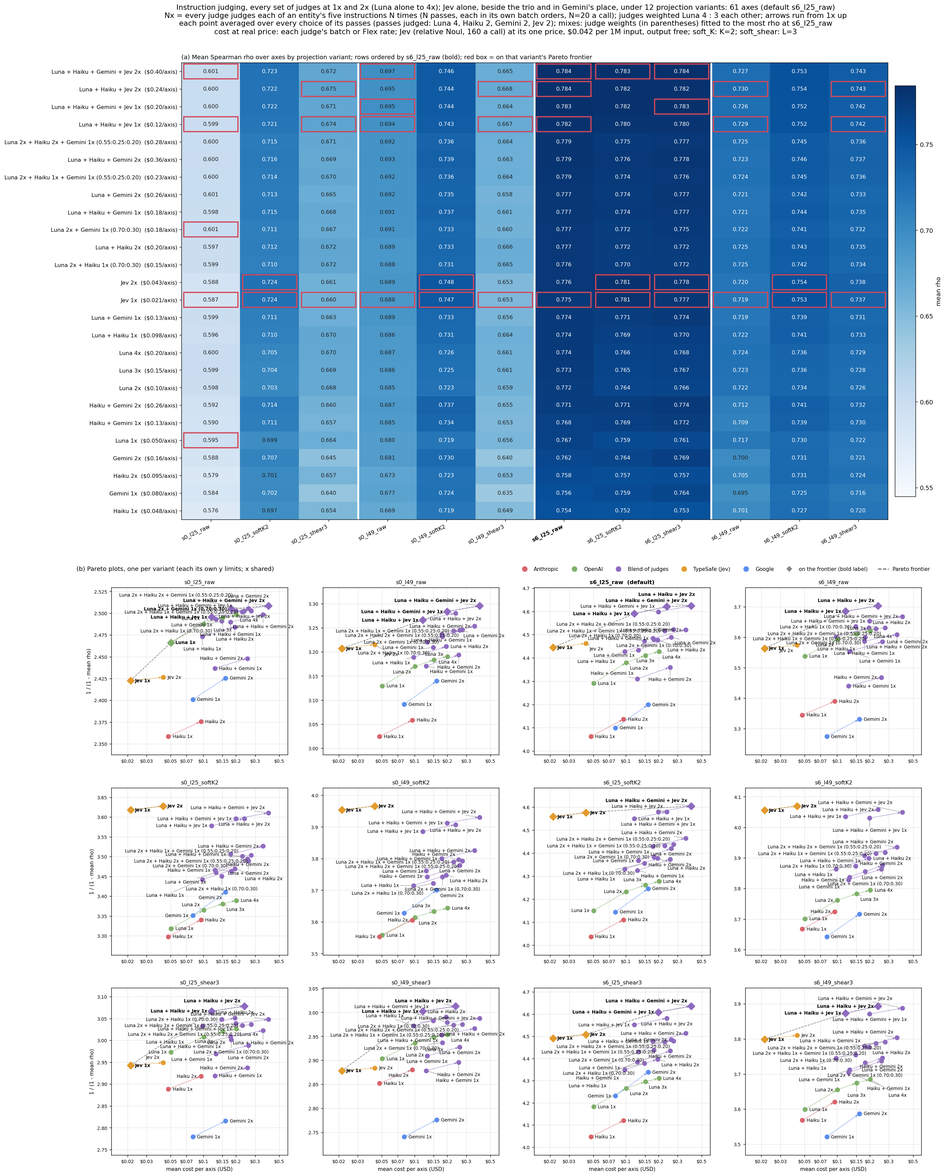
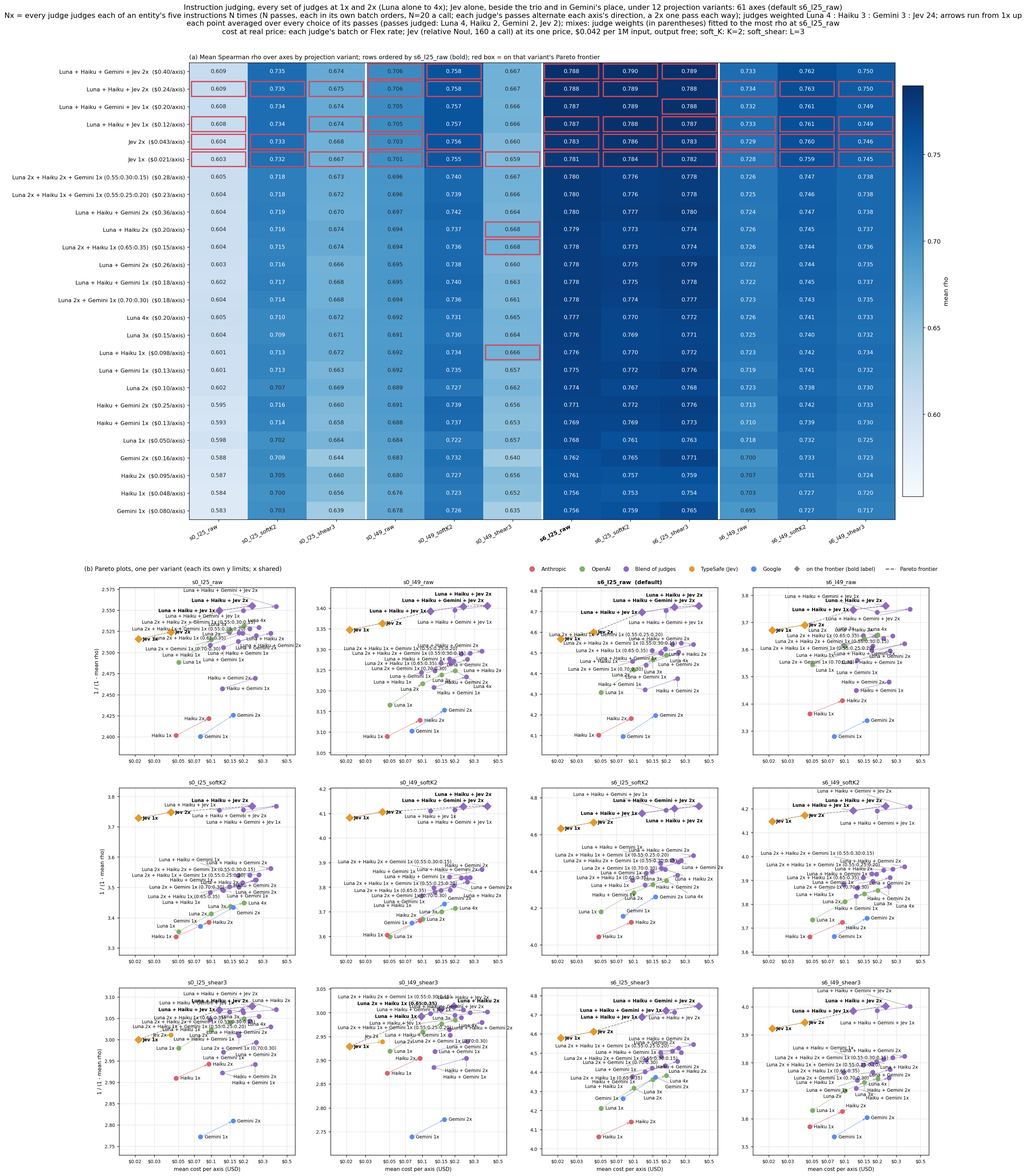
Instruction judging: Jev at 24, as for descriptions; Jev requested as jev-latest with its version checked; the balanced figure
Jev's instruction weight (Roger, 2026-11-04: "(Luna + Haiku + Gemini + Jev) x2, and just do
both directions in the x2"), fitted on the trio's balanced instruction cells (rounds 0-9,
$21.69) and Jev's, on rho averaged over the 12 projection variants: the peak of 4:3:3:X at
20, 24 0.0000 below it [-0.0002, +0.0003], 12-40 within 0.001, the bootstrap's best X in
[12, 40], 16 to 24 picked by either half and by leaving any one axis out, +0.0044
[+0.0014, +0.0074] over 3.  24 in both modes (TIER_JUDGE_WEIGHTS_BY_MODE).  Four judges 2x:
0.789 at $0.398 an axis, against the trio 1x 0.778 at $0.178; Luna + Haiku + Jev 2x 0.788.

TypeSafe serves only jev-latest and jev-preview (GET /v1/models), so the drivers' --model
jev-1.14.0 of 70da7b0f would have failed on a real run (the tests used a fake Jev).  The
drivers now request jev-latest, and judge_jev_entities.py --expect_model jev-1.14.0 writes
no cell (exit 5) when Jev answers as another version, since the cell names and the weights
are for that version.  The existing cells' logs then resume as they are.

judge_instruction_12way.png redrawn on the balanced cells with Jev; its notes, the README,
AGENT_NOTES and jev_judging.md carry the numbers.

Tests: the description driver's Jev command now expects --model jev-latest and
--expect_model jev-1.14.0 (changed expectation); new checks for the grid's command, for a
run refusing another version, and for the instruction weight.

diff --git a/scripts/judge_jev_entities.py b/scripts/judge_jev_entities.py
@@ -347,7 +347,12 @@ def build_parser() -> argparse.ArgumentParser:
     p.add_argument("--direction_pass", type=int, default=0, help="with --directions descriptions: 0 or 1")
     p.add_argument("--entities_per_call", type=int, default=20)
     p.add_argument("--shuffle_seed", type=int, default=1)
-    p.add_argument("--model", default=DEFAULT_MODEL)
+    p.add_argument("--model", default=DEFAULT_MODEL,
+                   help="the name requested: the API offers only jev-latest and jev-preview, no pinned versions")
+    p.add_argument("--expect_model", default=None,
+                   help="the version the answers must come from (e.g. jev-1.14.0, which the drivers' cell names and "
+                        "Jev's fitted weights are for): an answer from another version stops the run before any cell "
+                        "is written")
     p.add_argument("--cell_label", required=True, help="suffix of the cells, starting with @")
     p.add_argument("--max_in_flight", type=int, default=24)
     p.add_argument("--budget_usd", type=float, default=None, help="stop issuing requests past this spend")
@@ -502,6 +507,12 @@ def write_cells(jobs, requests, answers, args, levels: int, log_path: Path) -> i
     for job, key, names, _, _ in requests:
         by_axis.setdefault(job.axis_dir, []).append((names, answers[key]))
     resolved = sorted({r.get("model") for r in answers.values() if r.get("model")})
+    if args.expect_model and resolved != [args.expect_model]:
+        logger.error(f"Jev answered as {', '.join(resolved) or 'no named version'}, not {args.expect_model}: the "
+                     f"cells' names and Jev's fitted weights are for {args.expect_model}, so no cell is written.  Check "
+                     f"the new version, then change JEV_MODEL in the drivers (judge_descriptions.py, "
+                     f"judge_instruction_grid.py), which refits nothing by itself")
+        return 5
     model = resolved[0] if len(resolved) == 1 else args.model
     mode = args.mode
     n_ok = n_all = 0

diff --git a/results_analysis/judge_descriptions.py b/results_analysis/judge_descriptions.py
@@ -78,6 +78,9 @@ DESCRIPTION_PASSES = 2
 #: value Jev's probability of yes), its passes balanced the same way as the others', its weight in
 #: judge_score_combine.TIER_JUDGE_WEIGHTS.  Its key is TYPESAFE_API_KEY.
 JEV_MODEL = "jev-1.14.0"
+#: The name requested: TypeSafe's API serves only jev-latest and jev-preview (GET /v1/models, 2026-11-04), so the
+#: drivers ask for jev-latest and require answers from JEV_MODEL (judge_jev_entities.py --expect_model).
+JEV_REQUEST_MODEL = "jev-latest"
 JEV_TOOL = Path(__file__).resolve().parents[1] / "scripts" / "judge_jev_entities.py"
 JEV_ENTITIES_PER_CALL = 160
 JEV_METHOD = ("--question", "noul", "--wording", "relative")
@@ -158,7 +161,7 @@ def pass_argv(args: argparse.Namespace, model: str, seed: int) -> List[str]:
 def jev_pass_argv(args: argparse.Namespace, model: str, seed: int) -> List[str]:
     """judge_jev_entities.py's arguments for one Jev pass: the same axes, seed and direction pass as the other
     judges' pass of that seed (so its batches are its own, 160 a request, and its directions the same coin's)."""
-    argv = ["--mode", "descriptions", "--model", model, *JEV_METHOD, "--entities_per_call", str(JEV_ENTITIES_PER_CALL),
+    argv = ["--mode", "descriptions", "--model", JEV_REQUEST_MODEL, "--expect_model", model, *JEV_METHOD, "--entities_per_call", str(JEV_ENTITIES_PER_CALL),
             "--shuffle_seed", str(seed), "--cell_label", jev_pass_label(seed, args.directions),
             "--experiments_dir", args.experiments_dir, "--instructions_dir", args.instructions_dir]
     if args.directions == "balanced":

diff --git a/scripts/judge_instruction_grid.py b/scripts/judge_instruction_grid.py
@@ -43,6 +43,8 @@ from results_analysis.judge_descriptions import max_tokens_for
 TOOL = REPO / "results_analysis" / "judge_tier_cost_eval.py"
 JEV_TOOL = REPO / "scripts" / "judge_jev_entities.py"
 JEV_MODEL = "jev-1.14.0"
+#: Requested as jev-latest, the only released name (judge_descriptions.JEV_REQUEST_MODEL), answers required from JEV_MODEL.
+JEV_REQUEST_MODEL = "jev-latest"
 JEV_ENTITIES_PER_CALL = 160
 JEV_METHOD = ("--question", "noul", "--wording", "relative")
 #: The settled instruction judges (Roger, 2026-11-03: the three; 2026-11-04: with Jev, two passes each)
@@ -63,7 +65,8 @@ def jev_round_label(r: int, directions: str = "own") -> str:
 def jev_command(model: str, r: int, args) -> list:
     """judge_jev_entities.py's command for Jev's round ``r``: instruction r mod 5, seed r + 1, its own batches of
     160, its column of Roger's direction table."""
-    argv = [sys.executable, str(JEV_TOOL), "--mode", "instructions", "--instruction_round", str(r), "--model", model,
+    argv = [sys.executable, str(JEV_TOOL), "--mode", "instructions", "--instruction_round", str(r), "--model", JEV_REQUEST_MODEL,
+            "--expect_model", model,
             *JEV_METHOD, "--entities_per_call", str(JEV_ENTITIES_PER_CALL), "--shuffle_seed", str(r + 1),
             "--cell_label", jev_round_label(r, args.directions), "--axes_file", args.axes_file,
             "--experiments_dir", args.experiments_dir, "--instructions_dir", args.instructions_dir,

diff --git a/results_analysis/tests/test_judge_tier_cost_eval.py b/results_analysis/tests/test_judge_tier_cost_eval.py
@@ -2955,6 +2955,19 @@ def test_jev_entities_judges_a_batch_per_request_and_writes_description_cells(wo
         run(["--shuffle_seed", "2"])
 
 
+def test_jev_entities_refuses_answers_from_another_version(world, monkeypatch):
+    """2026-11-04: TypeSafe serves only jev-latest, so the drivers ask for it and require the version their cell
+    names and Jev's fitted weights are for; answers from another version write no cell (exit 5), and a rerun
+    expecting the version that answered writes them from the log without asking again."""
+    mod, fake, run = _jev_entities(world, monkeypatch, "--mode", "descriptions", "--question", "noul",
+                                   "--entities_per_call", "3", "--cell_label", "@jd_v")
+    assert run(["--expect_model", "jev-1.13.0"]) == 5                # the fake answers as jev-1.14.0
+    assert not list(world.exp.glob("*_tier_eval/jev-*@jd_v"))
+    n = len(fake.calls)
+    assert run(["--expect_model", "jev-1.14.0"]) == 0 and len(fake.calls) == n
+    assert (world.exp / f"{AXES[0][0]}_tier_eval" / "jev-1.14.0@jd_v" / "scores_descriptions.json").exists()
+
+
 def test_jev_entities_instruction_round_puts_that_rounds_instruction_in_the_state(world, monkeypatch):
     for name in ("calm", "bold", "shy", "kind", "alpha", "beta"):
         p = world.data / "traits" / "instructions" / f"{name}.json"

diff --git a/assistant_axis/judge_score_combine.py b/assistant_axis/judge_score_combine.py
@@ -318,8 +318,14 @@ TIER_JUDGE_DEFAULT_WEIGHT: float = 3.0
 #: on rho averaged over the 12 projection variants: the peak of 4:3:3:X, the plateau 16-40 within 0.0005 of it,
 #: the bootstrap's best X in [16, 40] (95%), 24 chosen fitting either half and leaving any one axis out, and
 #: +0.0083 [+0.0051, +0.0113] over X = 3; a free fit of all four weights gains nothing on held-out halves.
+#: instructions: 24 too (Roger: "(Luna + Haiku + Gemini + Jev) x2, and just do both directions in the x2"),
+#: fitted the same way on the balanced instruction cells (rounds 0-9): the peak at 20, 0.0000 above 24
+#: ([-0.0002, +0.0003]), the plateau 12-40 within 0.001, the bootstrap's best X in [12, 40] (95%, 24 the
+#: commonest), 16 to 24 chosen fitting either half or leaving any one axis out, and +0.0044 [+0.0014, +0.0074]
+#: over X = 3; one weight for both modes, since nothing tells the two apart.
 #: Evidence: reports/judge_pareto/jev_judging.md.
-TIER_JUDGE_WEIGHTS_BY_MODE: Dict[str, Dict[str, float]] = {"descriptions": {"jev-1.14.0": 24.0}}
+TIER_JUDGE_WEIGHTS_BY_MODE: Dict[str, Dict[str, float]] = {"descriptions": {"jev-1.14.0": 24.0},
+                                                           "instructions": {"jev-1.14.0": 24.0}}
 
 
 def tier_judge_weights(judges, mode: Optional[str] = None) -> Dict[str, float]:

diff --git a/results_analysis/tests/test_judge_descriptions_jev.py b/results_analysis/tests/test_judge_descriptions_jev.py
@@ -33,7 +33,9 @@ def test_jev_passes_go_to_its_own_tool_with_the_same_seeds_and_directions(monkey
         get = lambda flag: argv[argv.index(flag) + 1]
         assert get("--shuffle_seed") == str(p + 1) and get("--direction_pass") == str(p)
         assert get("--cell_label") == f"@jd_noul_relative_n160d{p + 1}" and get("--entities_per_call") == "160"
-        assert get("--question") == "noul" and get("--wording") == "relative" and get("--model") == jd.JEV_MODEL
+        assert get("--question") == "noul" and get("--wording") == "relative"
+        # the API serves only jev-latest; the answers must come from the version the cells and weights are for
+        assert get("--model") == jd.JEV_REQUEST_MODEL == "jev-latest" and get("--expect_model") == jd.JEV_MODEL
         assert get("--directions") == "descriptions" and get("--axes_file") == "axes.tsv"
     calls.clear()
     assert jd.run_judge(_args(), "gpt-5.6-luna") == 0

diff --git a/assistant_axis/tests/test_judge_score_combine.py b/assistant_axis/tests/test_judge_score_combine.py
@@ -504,6 +504,8 @@ def test_tier_judge_weights_take_a_modes_own_weights():
     four = ["gpt-5.6-luna", "claude-haiku-5-5", "gemini-3.1-flash-lite", "jev-1.14.0"]
     w = tier_judge_weights(four, "descriptions")
     assert w["jev-1.14.0"] / w["gpt-5.6-luna"] == pytest.approx(24 / 4) and w["claude-haiku-5-5"] / w["gpt-5.6-luna"] == pytest.approx(3 / 4)
+    wi = tier_judge_weights(four, "instructions")        # fitted the same way on the balanced instruction cells
+    assert wi["jev-1.14.0"] / wi["gpt-5.6-luna"] == pytest.approx(24 / 4) and wi["gemini-3.1-flash-lite"] == pytest.approx(3 / 34)
     plain = tier_judge_weights(four)
     assert plain["jev-1.14.0"] / plain["gpt-5.6-luna"] == pytest.approx(3 / 4)
     assert tier_judge_weights(["gpt-5.6-luna", "jev-1.14.0@x"], "responses")["jev-1.14.0@x"] == pytest.approx(3 / 7)

diff --git a/scripts/tests/test_judge_instruction_grid_jev.py b/scripts/tests/test_judge_instruction_grid_jev.py
@@ -38,6 +38,7 @@ def test_jev_rounds_run_its_own_tool_and_join_the_blend(monkeypatch, tmp_path):
         assert get("--instruction_round") == str(r) and get("--shuffle_seed") == str(r + 1)
         assert get("--cell_label") == f"@ji_noul_relative_n160d{r}" and get("--directions") == "instructions"
         assert get("--question") == "noul" and get("--entities_per_call") == "160" and get("--mode") == "instructions"
+        assert get("--model") == "jev-latest" and get("--expect_model") == "jev-1.14.0"
     out, sources = blends[0]
     assert out == "gpt-5.6-luna+claude-haiku-5-5+gemini-3.1-flash-lite+jev-1.14.0@i1_p0n20dx2"
     assert len(sources) == 40 and "jev-1.14.0@ji_noul_relative_n160d9" in sources and "gpt-5.6-luna@i1_p0n20d0" in sources

diff --git a/reports/judge_pareto/jev_judging.md b/reports/judge_pareto/jev_judging.md
@@ -106,12 +106,39 @@ So Jev carries 71% of the description blend.  Alone, the judges at 2x balanced s
 
 ## The instruction blend
 
-To be fitted on the trio's balanced instruction cells (`<judge>@i1_p0n20d0..d9`, judged 2026-11-04) with Jev's (`@ji_noul_relative_n160d0..d9`), in the same way.  Until then, Jev on instructions takes the default weight of 3.
+The cells are all four judges, two passes each, on the 61 axes: rounds 0-9, the trio's `<judge>@i1_p0n20d0..d9` (judged 2026-11-04, $21.69) and Jev's `@ji_noul_relative_n160d0..d9`.  Each judge sees each instruction once each way.  Each judge's ten rounds are averaged, then blended 4:3:3:X, with X fitted on ρ averaged over the 12 variants, as for descriptions.
+
+| X | 0 (the trio) | 3 | 8 | 12 | 16 | **20** | 24 | 32 | 48 | 128 | Jev alone |
+|---|---:|---:|---:|---:|---:|---:|---:|---:|---:|---:|---:|
+| ρ, mean of 12 | 0.7202 | 0.7257 | 0.7290 | 0.7299 | 0.7301 | **0.7302** | 0.7301 | 0.7299 | 0.7293 | 0.7276 | 0.7259 |
+
+- **Plateau:** X = 20 is the peak, and 12 to 40 lie within 0.001 of it.  24 is 0.0000 below it ([−0.0003, +0.0002]).
+- **Bootstrap:** resampling the axes, the best X falls between 12 and 40 in 95% of cases (24 most often, 30%; 16 and 20 24% each).
+- **Out of sample:** fitting the development half picks 16, the held-out half 24, and leaving any one axis out picks 16 to 24.  Over 500 random half splits, the out-of-sample gain over the trio alone is +0.0100 at X = 16 or 24 and +0.0055 at X = 3.
+- **Against X = 3:** 24 is +0.0044 [+0.0014, +0.0074].
+- **Free weights:** the best free fit on all 61 is 5 : 1.5 : 0 : 12 (0.7309 against 0.7302); fitted on either half it scores −0.0001 and +0.0010 on the other, so nothing to choose.
+
+**Chosen: 24, as for descriptions** (`judge_score_combine.TIER_JUDGE_WEIGHTS_BY_MODE`).  Nothing separates it from the peak, and one weight for both modes is simpler.  Alone, the judges at 2x balanced score Jev 0.7259, Luna 0.7152, Haiku 0.7045 and Gemini 0.7041.
+
+The arms at the default variant (s6_l25_raw), from [`judge_instruction_12way.png`](../../roger/axis_judge_experiments/instruction_judging_12way/judge_instruction_12way.png), balanced: a 2x takes each judge's passes one each way, a 1x alternates directions over an entity's instructions (Roger's table):
+
+| judges (61 axes, balanced) | ρ | $ per axis | on the frontier, of 12 variants |
+|---|---:|---:|---:|
+| Luna, 1 pass | 0.768 | 0.050 | 0 |
+| Luna + Haiku + Gemini, 1 pass each (the default to 2026-11-04) | 0.778 | 0.178 | 0 |
+| Luna + Haiku + Gemini, 2 passes each | 0.780 | 0.356 | 0 |
+| Jev, 1 pass | 0.781 | 0.021 | 12 |
+| Jev, 2 passes | 0.783 | 0.043 | 10 |
+| Luna + Haiku + Jev, 1 pass each | 0.787 | 0.119 | 9 |
+| Luna + Haiku + Jev, 2 passes each | 0.788 | 0.239 | 10 |
+| **Luna + Haiku + Gemini + Jev, 2 passes each (the default)** | **0.789** | **0.398** | **5** |
+
+As on descriptions, Gemini adds little beside Jev: the default is +0.0003 over Luna + Haiku + Jev at 2x, for $0.16 more an axis.  On the October corpus (1,270 entities an axis, instructions 40 tokens against 24) the default costs roughly $0.95 an axis, about $190 for 200 axes (the trio's $0.42 an axis at 1x, doubled, plus Jev scaled from the May corpus; an estimate, not a dry run).
 
 ## Where Jev is strong and weak (one pass each, own order, 61 axes)
 
 Jev's lead over Luna in descriptions predicts its lead in instructions (Spearman +0.68 across the axes), so these are properties of the axes.
-- **Ahead in both:** [introverted](../../data/traits/instructions/introverted.json) vs [extroverted](../../data/traits/instructions/extroverted.json) (+0.14 on descriptions), [casual](../../data/traits/instructions/casual.json) vs [formal](../../data/traits/instructions/formal.json), materialistic vs spiritual, forgiving, passionate, dependable, obedient, ecocentric.
+- **Ahead in both:** [introverted](../../data/traits/instructions/introverted.json) vs [extroverted](../../data/traits/instructions/extroverted.json) (+0.14 on descriptions), [casual](../../data/traits/instructions/casual.json) vs [formal](../../data/traits/instructions/formal.json), [materialistic](../../data/traits/instructions/materialistic.json) vs [spiritual](../../data/traits/instructions/spiritual.json), [forgiving](../../data/traits/instructions/forgiving.json), [passionate](../../data/traits/instructions/passionate.json), [dependable](../../data/traits/instructions/dependable.json), [obedient](../../data/traits/instructions/obedient.json), [ecocentric](../../data/traits/instructions/ecocentric.json).
 - **Behind in both:** [precise](../../data/traits/instructions/precise.json) vs [vague](../../data/traits/instructions/vague.json) and [concise](../../data/traits/instructions/concise.json) vs [verbose](../../data/traits/instructions/verbose.json).  Both are about how someone expresses themselves.
 - **No pattern** by kind (roles, traits) or by moral axis.
 

diff --git a/AGENT_NOTES.md b/AGENT_NOTES.md
@@ -1094,9 +1094,14 @@ table and the second pass the first reversed, so every judge sees every instruct
 each way: GPT-5.6 Luna, Haiku 5.5 and Gemini 3.1 Flash-Lite by `i1_p0` at N=20, and Jev by
 its own method (`scripts/judge_jev_entities.py`, 160 a request, its column B A B A d).
 [`scripts/judge_instruction_grid.py`](./scripts/judge_instruction_grid.py) `--design rounds`
-runs it by default and derives the blend `<judges>@i1_p0n20dx2`.  Jev's instruction weight
-is fitted on the balanced cells like its description weight (until it is set in
-`TIER_JUDGE_WEIGHTS_BY_MODE`, Jev takes the default 3); the account is
+runs it by default and derives the blend `<judges>@i1_p0n20dx2`, Luna 4 : Haiku 3 : Gemini 3
+: Jev 24, Jev's weight fitted on the balanced cells as for descriptions (the peak at 20, 24
+indistinguishable, +0.0044 [+0.0014, +0.0074] over 3): ρ 0.789 at $0.398 an axis on the 61
+axes, against 0.778 at $0.178 for the trio at 1x; Luna + Haiku + Jev at 2x 0.788 at $0.239;
+Jev alone 0.781 at $0.021, on the frontier in 12 of 12 variants.  Jev is requested as
+`jev-latest`, the only name TypeSafe serves (`GET /v1/models`), and a run writes no cell if
+it answers as another version than `jev-1.14.0` (`judge_jev_entities.py --expect_model`).
+The account is
 [`reports/judge_pareto/jev_judging.md`](./reports/judge_pareto/jev_judging.md).  Before
 2026-11-04 (Roger, 2026-11-03): every judge judges each of
 an entity's five instructions once, one instruction per entity per call (`i1_p0`, the plain
@@ -3071,7 +3076,7 @@ edit.
 | `DEFAULT_GPT_HAIKU_Q9_WEIGHT` | `0.525` | GPT / Haiku in the response-mode ensemble (was `0.60` until 2026-05-11; then `0.41` 2026-05-11→05-12 on the raw-projection v2 sweep; `0.625` 2026-05-12→05-22 on the canonical-whitening soft_shear=3 v2 sweep at 12 axes; **retuned to `0.525` on 2026-05-22 22-axis cohort** — discrete grid peak w=0.525 on the expanded set; see `judge_score_combine.py` "Selection history") |
 | `DEFAULT_RESPONSE_DI_WEIGHT` | `0.80` | response / desc+inst in the final per-entity score |
 | `TIER_JUDGE_WEIGHTS` | Luna `4`, others `3` (`TIER_JUDGE_DEFAULT_WEIGHT`) | between the batched tier judges (GPT-5.6 Luna, Haiku 5.5, Gemini 3.1 Flash-Lite) in description and instruction judging, each judge's own mean over its passes or rounds first: 4:3 in a pair with Luna, 4:3:3 in the trio, 1:1 without Luna (Roger, 2026-11-03: Luna alone beats Haiku and Gemini alone; equal before).  Set, not tuned: fitted weights lean to Luna but gain nothing out of sample.  `tier_judge_weights`, `combine_tier_judges`; used by `judge_tier_average.py` (blend cells record `averaged.judge_weights`; one made under other weights is made again) and `scripts/judge_instruction_12way.py` |
-| `TIER_JUDGE_WEIGHTS_BY_MODE` | descriptions: Jev (`jev-1.14.0`) `24` | per judging mode, the weights that differ from `TIER_JUDGE_WEIGHTS` (2026-11-04): Jev on descriptions at 24 beside Luna 4, Haiku 3, Gemini 3, **fitted** (Roger asked for "an optimal blend ... of the form 4:3:3:X ... average across all 12"): the peak of 4:3:3:X on ρ averaged over the 12 variants, balanced cells, 61 axes; 16-40 within 0.0005; picked by both halves and by leaving any one axis out; +0.0083 [+0.0051, +0.0113] over 3.  Unlike the trio's, this fit holds out of sample.  `tier_judge_weights(judges, mode)`; `judge_tier_average.py` takes the mode from the cells.  Evidence: [`reports/judge_pareto/jev_judging.md`](./reports/judge_pareto/jev_judging.md) |
+| `TIER_JUDGE_WEIGHTS_BY_MODE` | descriptions and instructions: Jev (`jev-1.14.0`) `24` | per judging mode, the weights that differ from `TIER_JUDGE_WEIGHTS` (2026-11-04): Jev on descriptions at 24 beside Luna 4, Haiku 3, Gemini 3, **fitted** (Roger asked for "an optimal blend ... of the form 4:3:3:X ... average across all 12"): the peak of 4:3:3:X on ρ averaged over the 12 variants, balanced cells, 61 axes; 16-40 within 0.0005; picked by both halves and by leaving any one axis out; +0.0083 [+0.0051, +0.0113] over 3.  On instructions, fitted the same way: the peak at 20, 24 0.0000 below it, 12-40 within 0.001, +0.0044 [+0.0014, +0.0074] over 3, so 24 in both modes.  Unlike the trio's, this fit holds out of sample.  `tier_judge_weights(judges, mode)`; `judge_tier_average.py` takes the mode from the cells.  Evidence: [`reports/judge_pareto/jev_judging.md`](./reports/judge_pareto/jev_judging.md) |
 
 > **RESOLVED 2026-05-14 — di-extension reconfirm done; all constants hold**
 >

diff --git a/roger/axis_judge_experiments/instruction_judging_12way/notes.md b/roger/axis_judge_experiments/instruction_judging_12way/notes.md
@@ -4,6 +4,32 @@
 
 Made 2026-11-03.  The method in both: every judge in an arm judges every text of an entity (five instructions, or the one description), and **Nx is N passes over those texts**, each pass in its own batch orders, to average out sampling noise.  A point's ρ and cost are averaged over every choice of its judges' passes, so no arm rests on one draw.  An entity's score is each judge's mean over all its judgements, the judges weighted Luna 4 : 3 for any other (`judge_score_combine.TIER_JUDGE_WEIGHTS`); a mix of unequal passes takes weights fitted to the most ρ at the default projection, with split-half and leave-one-axis-out checks recorded in the JSON.  Cost is the real price (each judge's Flex or batch rate) on the May corpus, about 577 entities an axis.  A point is on a variant's frontier only when it is on the frontier's convex hull.
 
+## Since 2026-11-04: Jev, and the poles balanced
+
+Both figures now carry Jev (TypeSafe AI's model, six arms: Jev 1x and 2x, and Luna + Haiku + Gemini + Jev and Luna + Haiku + Jev at 1x and 2x) and read the balanced cells, after Roger's rule that no judging runs in one fixed pole order.  A judge's 2x is its two passes one each way.  A 1x alternates the direction over an entity's five instructions (Roger's table, `judge_tier_cost_eval.INSTRUCTION_DIRECTIONS`) or, for a description, takes a coin's direction per axis.  The blends weigh Luna 4 : Haiku 3 : Gemini 3 : Jev 24 in both modes, Jev's weight fitted on these cells ([`jev_judging.md`](../../../reports/judge_pareto/jev_judging.md)).  **The decisions (Roger, 2026-11-04): Luna + Haiku + Gemini + Jev, two passes each, one each way, for descriptions and for instructions.**  `scripts/judge_instruction_12way.py --without_jev --directions own` redraws the figures of 2026-11-03, whose account follows this section.
+
+| instructions (61 axes, s6_l25_raw) | ρ | $/axis | frontier of 12 |
+|---|---:|---:|---:|
+| Luna 1x | 0.768 | 0.050 | 0 |
+| Luna + Haiku + Gemini 1x (the default to 2026-11-04) | 0.778 | 0.178 | 0 |
+| Luna + Haiku + Gemini 2x | 0.780 | 0.356 | 0 |
+| Jev 1x | 0.781 | 0.021 | 12 |
+| Jev 2x | 0.783 | 0.043 | 10 |
+| Luna + Haiku + Jev 1x | 0.787 | 0.119 | 9 |
+| Luna + Haiku + Jev 2x | 0.788 | 0.239 | 10 |
+| **Luna + Haiku + Gemini + Jev 2x** | **0.789** | **0.398** | **5** |
+
+| descriptions (61 axes, s6_l25_raw) | ρ | $/axis | frontier of 12 |
+|---|---:|---:|---:|
+| Luna 1x | 0.709 | 0.011 | 0 |
+| Jev 1x | 0.745 | 0.004 | 12 |
+| Luna + Haiku + Gemini 2x (the default to 2026-11-04) | 0.751 | 0.076 | 0 |
+| Jev 2x | 0.758 | 0.008 | 12 |
+| Luna + Haiku + Jev 2x | 0.766 | 0.050 | 12 |
+| **Luna + Haiku + Gemini + Jev 2x** | **0.766** | **0.084** | **5** |
+
+In both modes Gemini adds about +0.0003 beside Jev.  Data: the trio's balanced cells `<judge>@i1_p0n20d<r>` (rounds 0–9, $21.69) and `<judge>@b10n20d<seed>` (seeds 1–2), Jev's `jev-1.14.0@ji_noul_relative_n160d<r>` and `jev-1.14.0@jd_noul_relative_n160d<seed>`; Luna's third and fourth instruction passes are its own-order rounds 10–19.
+
 ## The decisions (Roger, 2026-11-03)
 
 - **Instructions: Luna + Haiku + Gemini, one pass each** (0.777 at $0.178 an axis; on the frontier in 7 of 12 variants; better than Luna alone in all 12 and than Luna + Haiku in 9).  Rule: one pass of every model, since the ensemble across models helps and its gains vary by axis, while repeat passes of one model are not consistently worth their cost.  Luna's second, third and fourth passes add +0.005, +0.002 and +0.001; nothing dearer than the trio is distinguishable from it.  Production: [`scripts/judge_instruction_grid.py`](../../../scripts/judge_instruction_grid.py) `--design rounds`, which derives the blend cell `<judges>@i1_p0n20x1`.

diff --git a/.claude/rules/judge-scoring.md b/.claude/rules/judge-scoring.md
@@ -27,7 +27,7 @@ edit.
 | `DEFAULT_GPT_HAIKU_Q9_WEIGHT` | `0.525` | GPT / Haiku in the response-mode ensemble (was `0.60` until 2026-05-11; then `0.41` 2026-05-11→05-12 on the raw-projection v2 sweep; `0.625` 2026-05-12→05-22 on the canonical-whitening soft_shear=3 v2 sweep at 12 axes; **retuned to `0.525` on 2026-05-22 22-axis cohort** — discrete grid peak w=0.525 on the expanded set; see `judge_score_combine.py` "Selection history") |
 | `DEFAULT_RESPONSE_DI_WEIGHT` | `0.80` | response / desc+inst in the final per-entity score |
 | `TIER_JUDGE_WEIGHTS` | Luna `4`, others `3` (`TIER_JUDGE_DEFAULT_WEIGHT`) | between the batched tier judges (GPT-5.6 Luna, Haiku 5.5, Gemini 3.1 Flash-Lite) in description and instruction judging, each judge's own mean over its passes or rounds first: 4:3 in a pair with Luna, 4:3:3 in the trio, 1:1 without Luna (Roger, 2026-11-03: Luna alone beats Haiku and Gemini alone; equal before).  Set, not tuned: fitted weights lean to Luna but gain nothing out of sample.  `tier_judge_weights`, `combine_tier_judges`; used by `judge_tier_average.py` (blend cells record `averaged.judge_weights`; one made under other weights is made again) and `scripts/judge_instruction_12way.py` |
-| `TIER_JUDGE_WEIGHTS_BY_MODE` | descriptions: Jev (`jev-1.14.0`) `24` | per judging mode, the weights that differ from `TIER_JUDGE_WEIGHTS` (2026-11-04): Jev on descriptions at 24 beside Luna 4, Haiku 3, Gemini 3, **fitted** (Roger asked for "an optimal blend ... of the form 4:3:3:X ... average across all 12"): the peak of 4:3:3:X on ρ averaged over the 12 variants, balanced cells, 61 axes; 16-40 within 0.0005; picked by both halves and by leaving any one axis out; +0.0083 [+0.0051, +0.0113] over 3.  Unlike the trio's, this fit holds out of sample.  `tier_judge_weights(judges, mode)`; `judge_tier_average.py` takes the mode from the cells.  Evidence: [`reports/judge_pareto/jev_judging.md`](./reports/judge_pareto/jev_judging.md) |
+| `TIER_JUDGE_WEIGHTS_BY_MODE` | descriptions and instructions: Jev (`jev-1.14.0`) `24` | per judging mode, the weights that differ from `TIER_JUDGE_WEIGHTS` (2026-11-04): Jev on descriptions at 24 beside Luna 4, Haiku 3, Gemini 3, **fitted** (Roger asked for "an optimal blend ... of the form 4:3:3:X ... average across all 12"): the peak of 4:3:3:X on ρ averaged over the 12 variants, balanced cells, 61 axes; 16-40 within 0.0005; picked by both halves and by leaving any one axis out; +0.0083 [+0.0051, +0.0113] over 3.  On instructions, fitted the same way: the peak at 20, 24 0.0000 below it, 12-40 within 0.001, +0.0044 [+0.0014, +0.0074] over 3, so 24 in both modes.  Unlike the trio's, this fit holds out of sample.  `tier_judge_weights(judges, mode)`; `judge_tier_average.py` takes the mode from the cells.  Evidence: [`reports/judge_pareto/jev_judging.md`](./reports/judge_pareto/jev_judging.md) |
 
 > **RESOLVED 2026-05-14 — di-extension reconfirm done; all constants hold**
 >
